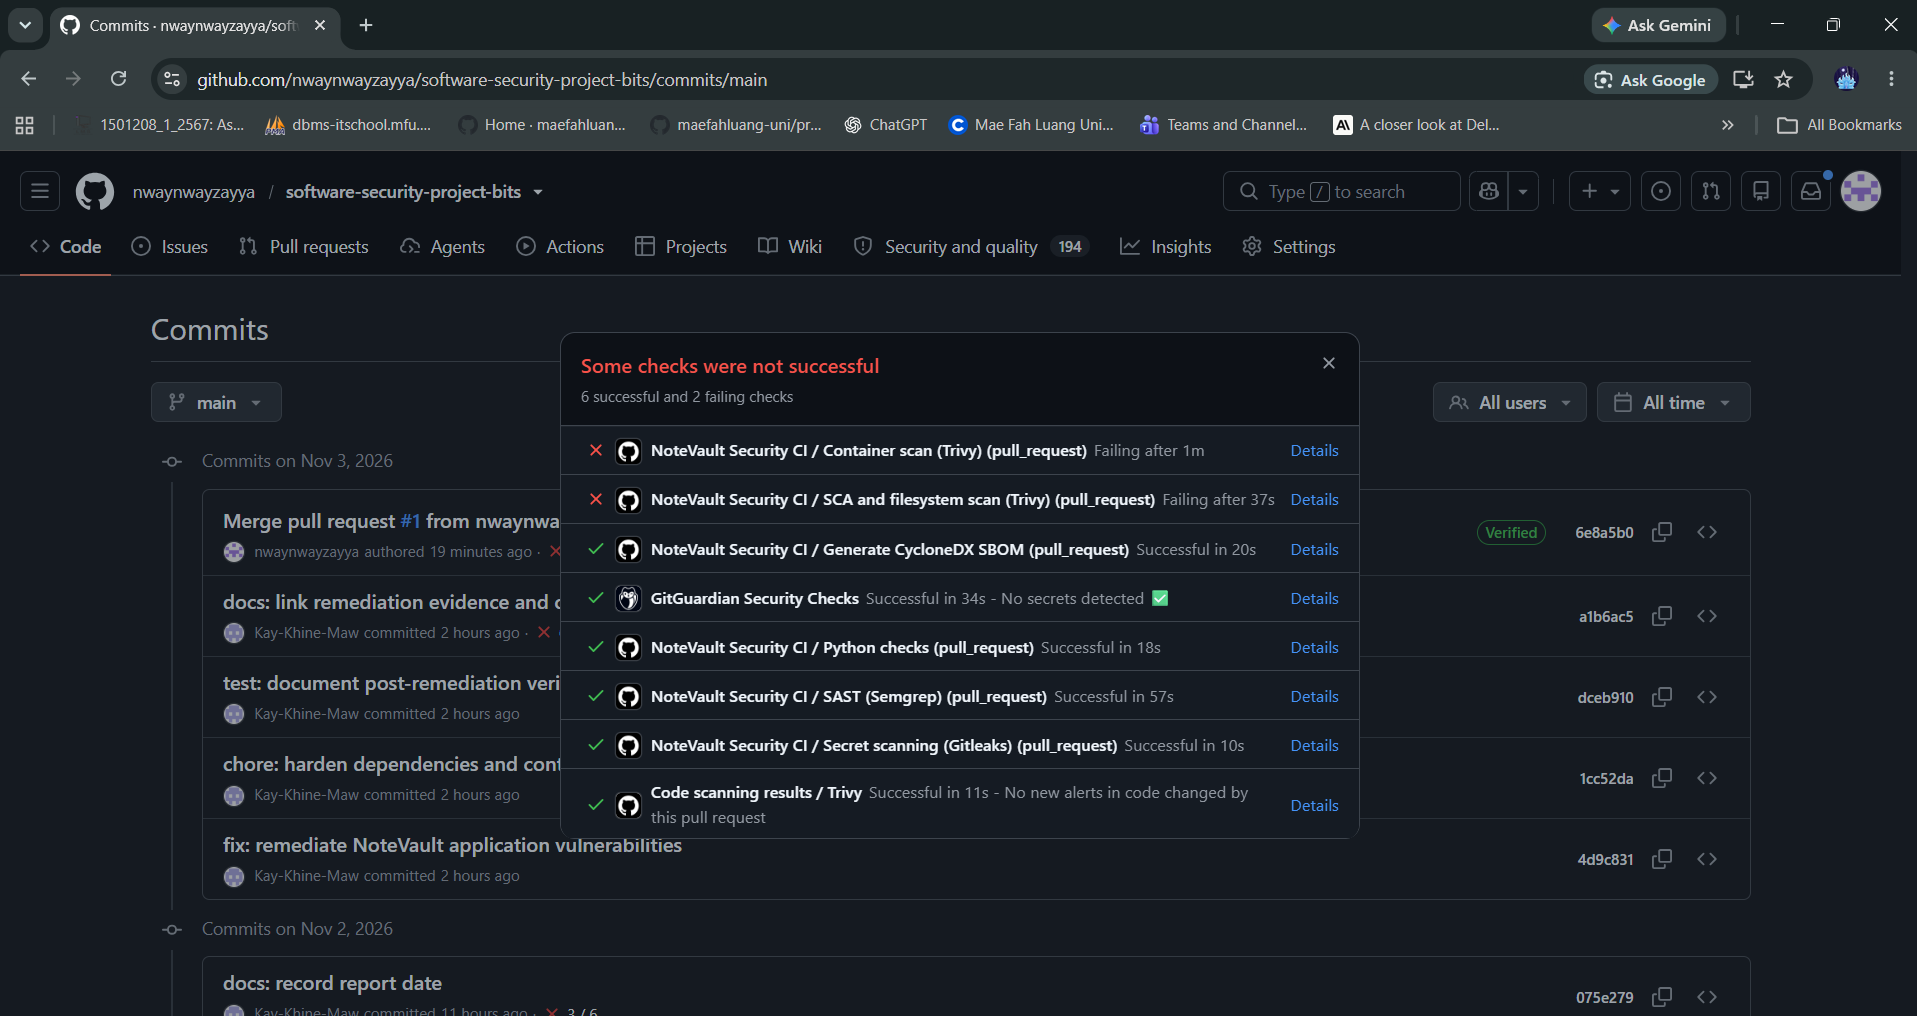
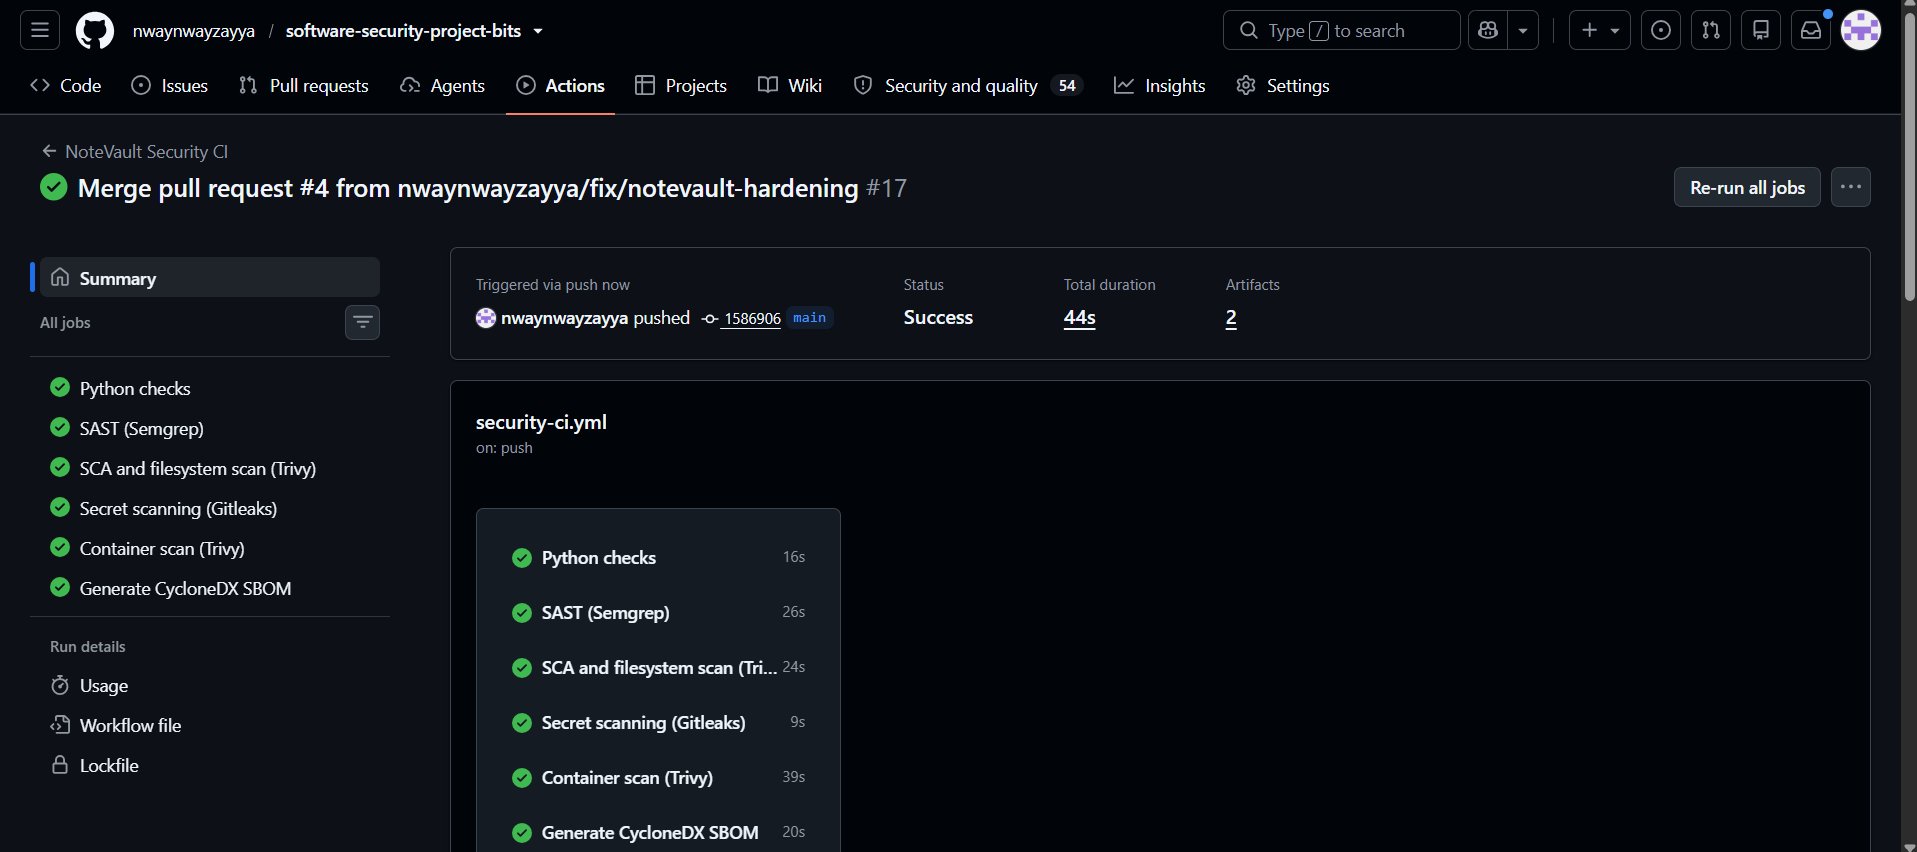
docs: finalize security verification evidence

diff --git a/FINAL-REPORT.md b/FINAL-REPORT.md
@@ -409,11 +409,10 @@ created and pushed.
 - **Baseline failure evidence:** The original vulnerable baseline failed Semgrep
   and Trivy HIGH/CRITICAL gates. Retain the failed run screenshot as evidence
   that the pipeline blocks risky code.
-- **Final verification:** 
-
+- **Final verification:** All six jobs passed in the merged `main` workflow run.
 - **Baseline failure screenshot:** `evidence/ci/baseline-failure.png`
 - **Final success screenshot:** `evidence/ci/final-success.png`
-- **Final run:** [<paste the successful GitHub Actions URL>](https://github.com/nwaynwayzayya/software-security-project-bits/actions/runs/41618345311)
+- **Final run:** [NoteVault Security CI run 17](https://github.com/nwaynwayzayya/software-security-project-bits/actions/runs/41630264442)
 
 - **Gate behavior:** Python compilation and SBOM generation must complete;
   Semgrep uses `--severity ERROR --error`; Trivy filesystem and image scans use
@@ -428,11 +427,11 @@ escaped rendering, CSRF validation, runtime secret injection, safer cookies,
 maintained dependencies, and a non-root container. The baseline tag preserves
 the original application for reproducible before/after comparison.
 
-Residual work includes publishing and signing the final image, completing the
-successful post-remediation CI run, and verifying the final dependency scan when
-the Trivy database is available. Further hardening would include a production
-WSGI server, centralized audit logging, rate limiting, secret rotation, HTTPS,
-automated dependency update review, and more comprehensive automated tests.
+Future hardening could include publishing and signing a registry image digest,
+using a production WSGI server, centralized audit logging, rate limiting, secret
+rotation, HTTPS, automated dependency update review, and more comprehensive
+automated tests. The required local archive signing and post-remediation CI
+verification are complete.
 
 The main lesson was that security controls must be tested together: adding CSRF
 protection initially exposed a cookie-name collision, which was corrected by
@@ -466,4 +465,4 @@ separating the framework session cookie from the JWT authentication cookie.
 | CI pipeline — works, fails build appropriately (§7) | 10 |
 | Presentation & report clarity (§1, §8) | 5 |
 
-*All work stays within the [ethics policy](../ETHICS.md).*
+*All work stays within the [ethics policy](ETHICS.md).*
